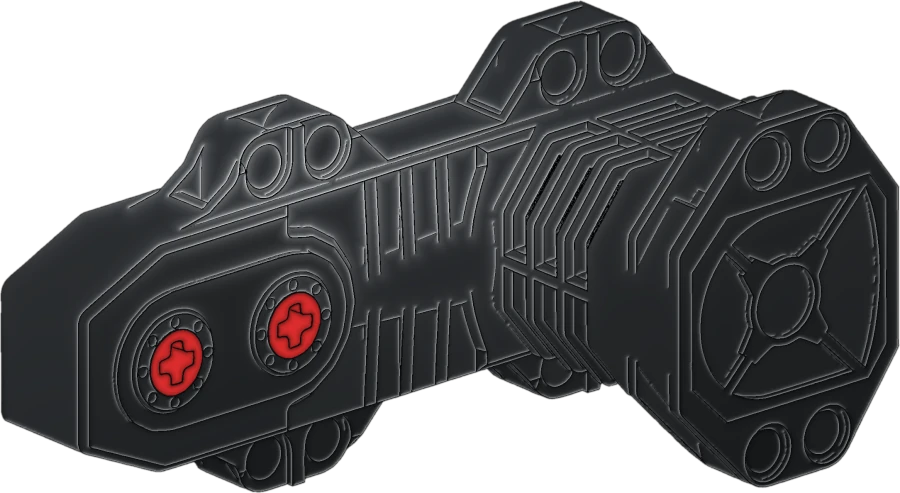
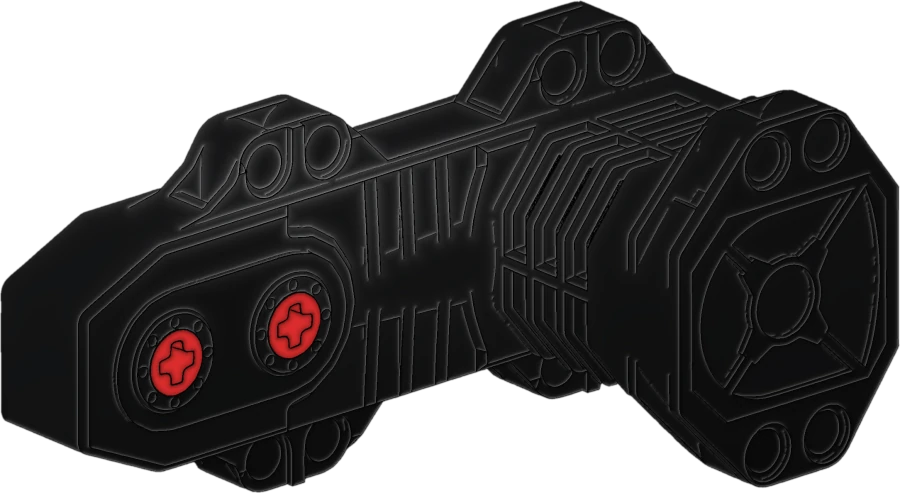
Build 100: Buggy motor bigger and darker in the hub wiring
Claude-Session: https://claude.ai/code/session_01RxQ4QJZ9M2VY5cz1gsySH8

diff --git a/app/src/main/assets/app.js b/app/src/main/assets/app.js
@@ -5679,7 +5679,7 @@ try{
   var V2MS3={"Eco": "Eco", "Sport": "Sport", "Drive mode": "Mod pandu",  "Play time limit (a day)": "Had masa main (sehari)", "2 minutes of play time left.": "Tinggal 2 minit masa main.", "Play time is up. Motors are slowing down.": "Masa main tamat. Motor sedang perlahan.", "Hold for 2 seconds to change (parents).": "Tahan 2 saat untuk tukar (ibu bapa).", "Play time limit off.": "Had masa main dimatikan.", "5 more minutes.": "Tambah 5 minit.", "Play time is up": "Masa main tamat", "Come back tomorrow, or a parent can add 5 minutes": "Main lagi esok, atau ibu bapa boleh tambah 5 minit", "+5 min (hold 2 s)": "+5 minit (tahan 2 s)", "Live output meter": "Meter keluaran langsung", "Left-handed (landscape)": "Mod kidal (landskap)", "Model colour": "Warna model", "Yellow": "Kuning", "Red": "Merah", "Blue": "Biru", "Green": "Hijau", "Purple": "Ungu", "White": "Putih", "Trim (runs straight)": "Trim (jalan lurus)", "Trim buttons on the widget": "Butang trim pada widget", "Trim left": "Trim kiri", "Trim right": "Trim kanan", "Trim reset to 0.": "Trim diset semula ke 0.", "Trim · tap to reset": "Trim · ketik untuk set semula", "Size": "Saiz", "Widget type": "Jenis widget", "All": "Semua", "Lights & buttons": "Lampu & butang", "Meters": "Meter", "Tap a button on the picture, or press it on the gamepad.": "Ketik butang pada gambar, atau tekan pada gamepad.", "Quick settings": "Tetapan pantas", "Unlock": "Buka kunci", "Dark theme": "Tema gelap", "Light theme": "Tema cerah", "hold 2 s": "tahan 2 s", "Release E-Stop (hold 1 s)": "Lepas E-Stop (tahan 1 s)", "Drive up to three Mould King 6.0 hubs from your phone. This guide shows the real buttons, step by step.": "Pandu sehingga tiga hub Mould King 6.0 dari telefon anda. Panduan ini menunjukkan butang sebenar, langkah demi langkah.", "Start": "Mula", "Turn the hub on, then hold START for half a second. The ring turns yellow when the hub answers.": "Hidupkan hub, kemudian tahan START selama setengah saat. Cincin bertukar kuning bila hub menjawab.", "Move the controls to drive. Lift your finger and they go back to 0.": "Gerakkan kawalan untuk memandu. Angkat jari dan ia kembali ke 0.", "E-Stop stops every motor at once. Tap it again to release.": "E-Stop menghentikan semua motor serta-merta. Ketik sekali lagi untuk lepas.", "Your models": "Model anda", "Make your own board, start from a template, or share a model with a friend.": "Buat papan sendiri, mula daripada templat, atau kongsi model dengan kawan.", "Welcome to MK6 Console": "Selamat datang ke MK6 Console", "Lock settings": "Kunci tetapan", "Disconnect": "Putuskan"};
   for(var v2k3 in V2MS3) if(!MS[v2k3]) MS[v2k3]=V2MS3[v2k3];
   var CHMS={"Motor axle: full-width LED display, it fills left to right going forward and right to left in reverse":"Paksi motor: paparan LED penuh, terisi dari kiri ke kanan bila maju dan kanan ke kiri bila undur","New meter widget Motor axle: the orange axle spins with the power and an LED bar shows forward and reverse":"Widget meter baharu Paksi motor: paksi oren berpusing ikut kuasa dan bar LED tunjuk maju dan undur","Hub wiring: LED cable joins the white connector cleanly, no stray black cable":"Pendawaian hub: kabel LED bersambung kemas pada connector putih, tiada lebihan kabel hitam","Hub wiring: the lock button is just the 🔒/🔓 symbol, no box":"Pendawaian hub: butang kunci hanya simbol 🔒/🔓, tanpa kotak","Channel test shows only the hub picked in Hub wiring":"Uji saluran hanya menunjukkan hub yang dipilih dalam Pendawaian hub","Hub wiring: lock button (on by default) so a stray touch cannot move the hub or parts; unlock to rearrange":"Pendawaian hub: butang kunci (hidup secara lalai) supaya sentuhan tersilap tidak mengalihkan hub atau part; buka kunci untuk susun semula","Layout locked.":"Susun atur dikunci.","Layout unlocked: drag the hub and parts.":"Susun atur dibuka: seret hub dan part.","Layout locked":"Susun atur dikunci","Layout unlocked":"Susun atur dibuka","Hub wiring: drag the hub too; its plugs stay locked on it and the cables follow":"Pendawaian hub: hub juga boleh diseret; palam kekal terkunci padanya dan kabel ikut","Hub wiring: no more light edge under the hub":"Pendawaian hub: tiada lagi garis cerah di bawah hub","Hub wiring: the hub is now the real picture of the hub, sharper and unchanged in shape and look":"Pendawaian hub: hub kini gambar sebenar hub, lebih tajam dan tidak diubah bentuk atau rupanya","Hub wiring in 3D: the real hub shape drawn in the motor style, 3D plugs and 4-core cables. Drag any motor anywhere on the board; cables re-route themselves around the hub and the other parts":"Pendawaian hub 3D: bentuk hub sebenar dilukis dalam gaya motor, palam 3D dan kabel 4 teras. Seret mana-mana motor ke mana sahaja atas papan; kabel mencari laluan sendiri mengelilingi hub dan part lain","Tap a port or drag a part":"Ketik port atau seret part","Hub wiring: LED lights are shown without the grey plug and its cable; the hub cable goes straight to the white connector":"Pendawaian hub: Lampu LED dipapar tanpa palam kelabu dan kabelnya; kabel hub terus ke penyambung putih","Hub wiring: the glow around a running plug is now a full frame (neighbouring plugs no longer cover it)":"Pendawaian hub: cahaya keliling palam yang berjalan kini bingkai penuh (palam jiran tidak lagi menutupnya)","Hub wiring": "Pendawaian hub", "Tap a port": "Ketik port",  "5 studs = 4 cm": "5 stud = 4 cm", "LED lights": "Lampu LED", "What is plugged in": "Apa yang dipasang", "Nothing": "Tiada", "Hold reverse": "Tahan undur", "Hold forward": "Tahan maju", "Close": "Tutup", "Hub wiring: the Hub screen now shows your Mould King hub with its six ports. Tap a port to say what is plugged in (Motor M, L, XL, Servo or LED lights); plugs, cables and parts light up and turn with the real output, and you can hold to test each port": "Pendawaian hub: skrin Hub kini menunjukkan hub Mould King anda dengan enam port. Ketik port untuk pilih apa yang dipasang (Motor M, L, XL, Servo atau Lampu LED); palam, kabel dan part menyala serta berpusing ikut output sebenar, dan anda boleh tahan untuk uji setiap port","Stop the hub to edit the board": "Hentikan hub untuk edit papan", "Stop the hub to edit the board.": "Hentikan hub untuk edit papan.", "Hub started: board editing ended.": "Hub dimulakan: edit papan ditamatkan.", "Upright board: editing is only available while the hub is stopped; starting the hub ends editing": "Papan menegak: edit hanya boleh bila hub dihentikan; memulakan hub menamatkan edit","Smoother and lighter: fewer layout reads in the paint loop, the frame log only updates while on screen, the effects monitor sleeps off the sideways board, and the swing angle pictures are 5× smaller": "Lebih lancar dan ringan: kurang bacaan susun atur dalam gelung lukisan, log bingkai hanya dikemas kini bila kelihatan, pemantau kesan tidur bila bukan papan landskap, dan gambar sudut pusingan 5× lebih kecil","Arc meter: the 5-second mini graph now shows on the sideways board too, whenever it fits": "Meter arka: graf mini 5 saat kini dipapar juga pada papan landskap, bila ada ruang","Edit mode upright: tap a widget to show its tools as round buttons over its corner, like the sideways board (no more cramped rows)": "Mod edit menegak: ketik widget untuk tunjuk alatnya sebagai butang bulat di penjurunya, seperti papan landskap (tiada lagi baris sesak)", "Tap a widget to show its tools.": "Ketik widget untuk tunjuk alatnya.","Dial comet tail: the LED ring segments the dial just passed glow and fade in 0.4 s (with Light trails in Settings)": "Ekor komet dail: segmen cincin LED yang baru dilalui dail menyala dan pudar dalam 0.4 s (bersama Jejak cahaya dalam Tetapan)", "Swap widgets: in dashboard edit mode, drop a widget on another and they swap places and sizes (Back undoes it)": "Tukar tempat widget: dalam mod edit papan landskap, lepaskan widget di atas widget lain dan kedua-duanya bertukar tempat serta saiz (Back membatalkan)", "Match size: pick a widget, tap ▣ and then tap others to give them the same size where there is room": "Samakan saiz: pilih widget, ketik ▣ kemudian ketik widget lain untuk beri saiz yang sama bila ada ruang", "Double tap to 0: double tap the knob of a slider, dial or lever and it glides back to 0 (lever: to N)": "Ketik dua kali ke 0: ketik dua kali tombol slider, dail atau lever dan ia meluncur kembali ke 0 (lever: ke N)", "E-Stop black box: the last 10 s of every channel are kept when E-Stop goes on; see them in Settings (last 3 stops)": "Kotak hitam E-Stop: 10 s terakhir setiap saluran disimpan bila E-Stop ditekan; lihat dalam Tetapan (3 henti terakhir)", "Match size": "Samakan saiz", "Tap widgets to give them this size:": "Ketik widget untuk beri saiz ini:", "Too small for this widget.": "Terlalu kecil untuk widget ini.", "No room for that size here.": "Tiada ruang untuk saiz itu di sini.", "Swap undone.": "Tukar tempat dibatalkan.", "Too small to swap there.": "Terlalu kecil untuk bertukar tempat di situ.", "E-Stop black box": "Kotak hitam E-Stop", "None yet": "Belum ada", "Nothing recorded yet. When E-Stop goes on, the last 10 seconds of every channel are kept here.": "Belum ada rakaman. Bila E-Stop ditekan, 10 saat terakhir setiap saluran disimpan di sini.", "The last 10 seconds before E-Stop. The red line is the moment it stopped.": "10 saat terakhir sebelum E-Stop. Garis merah ialah saat ia berhenti.", "Clear": "Kosongkan", "Close": "Tutup", "Black box cleared.": "Kotak hitam dikosongkan.", "Joystick light trail: a short yellow tail follows the knob and fades in 0.4 s (Settings → Experience)": "Jejak cahaya joystik: ekor kuning pendek mengikut tombol dan pudar dalam 0.4 s (Tetapan → Pengalaman)", "Live frames: the widget rim turns green while its motor runs, red at full stroke, and blinks red on E-Stop": "Bingkai hidup: bingkai widget bertukar hijau bila motornya berjalan, merah pada hujung gerakan, dan berkelip merah semasa E-Stop", "Pinch to resize: in dashboard edit mode, pinch a widget with two fingers to resize it in grid steps (Back undoes it)": "Cubit untuk ubah saiz: dalam mod edit papan landskap, cubit widget dengan dua jari untuk ubah saiz ikut petak grid (Back membatalkan)", "Two-finger fine control: rest a second finger on empty board space and sliders and joysticks move only 30% of your finger (20 / 30 / 50% or off in Settings)": "Kawalan halus dua jari: letak jari kedua di ruang kosong papan dan slider serta joystik hanya bergerak 30% daripada jari (20 / 30 / 50% atau tutup dalam Tetapan)", "Joystick light trail": "Jejak cahaya joystik", "Live frames (green = running, red = full)": "Bingkai hidup (hijau = berjalan, merah = penuh)", "Two-finger fine control": "Kawalan halus dua jari", "Fine": "Halus", "Joystick glow as bright as the sliders: it no longer shrinks with the joystick size, and it is drawn above the knob shadow":"Cahaya joystik kini seterang slider: tidak lagi mengecil ikut saiz joystik, dan dilukis di atas bayang tombol","One glow for every knob: sliders (flat and upright), joysticks and the ON switch now light up the same way; flat sliders draw their knob like the upright ones, so the glow is no longer cut off":"Satu cahaya untuk semua tombol: slider (mendatar dan tegak), joystik dan suis ON kini bercahaya sama; slider mendatar dilukis seperti slider tegak, jadi cahaya tidak lagi terpotong","Channel letter: tap it any time, even while driving with the hub on; every widget with channels has one (double stick too). Cleaner chip look, ⇄ button removed":"Huruf saluran: ketik bila-bila masa, walaupun semasa memandu dengan hub aktif; setiap widget bersaluran ada huruf ini (stik berkembar juga). Rupa cip lebih kemas, butang ⇄ dibuang","Change channel": "Tukar saluran", "Channel change undone.": "Tukar saluran dibatalkan.", "This channel is already used": "Saluran ini sudah digunakan", "Also used by:": "Turut digunakan oleh:", "Both widgets will drive the same channel. The last one you touch wins.": "Kedua-dua widget akan mengawal saluran yang sama. Yang terakhir disentuh menang.", "Share channel": "Kongsi saluran", "Channels": "Saluran", "Names ›": "Nama ›", "● used by another widget": "● digunakan widget lain", "✓ this widget": "✓ widget ini", "free": "bebas", "Channel settings (name, reverse, limit) stay with each channel.": "Tetapan saluran (nama, terbalik, had) kekal pada setiap saluran.", "Up / down": "Atas / bawah", "Left / right": "Kiri / kanan", "Left motor": "Motor kiri", "Right motor": "Motor kanan", "Left stick: left motor": "Stik kiri: motor kiri", "Left stick: right motor": "Stik kiri: motor kanan", "Right stick: left motor": "Stik kanan: motor kiri", "Right stick: right motor": "Stik kanan: motor kanan", "Left stick: up / down": "Stik kiri: atas / bawah", "Left stick: left / right": "Stik kiri: kiri / kanan", "Right stick: up / down": "Stik kanan: atas / bawah", "Right stick: left / right": "Stik kanan: kiri / kanan", "Left side": "Sebelah kiri", "Right side": "Sebelah kanan", "X (left / right)": "X (kiri / kanan)", "Y (up / down)": "Y (atas / bawah)", "Channel 1": "Saluran 1", "Channel 2": "Saluran 2", "Channel 3": "Saluran 3", "Channel 4": "Saluran 4", "Slider": "Peluncur", "Joystick": "Joystik", "Double stick": "Stik berkembar", "Light": "Lampu", "Turbo": "Turbo", "Toggle": "Togol", "Mix": "Campur", "Switch": "Suis", "Auto-stop": "Henti auto", "Ramp": "Naik perlahan", "Meter": "Meter", "Bar meter": "Meter bar", "Graph": "Graf", "Dial": "Dail", "Gear": "Gear", "Lever": "Tuas", "Steering wheel": "Stereng", "XY pad": "Pad XY", "Crossfader": "Crossfader", "Rotor": "Rotor", "Swing angle": "Sudut pusingan", "D-pad": "Pad arah", "LED widget": "Widget LED", "Widget": "Widget", "Hub": "Hub", "None": "Tiada", "Steer": "Pusing", "Drive": "Pandu", "Output A": "Output A", "Output B": "Output B", "Swing channel": "Saluran pusing", "Light channel": "Saluran lampu", "Channel": "Saluran", "Channels, every widget: tap the yellow channel letter while editing (or ⇄) to move a widget to another channel or hub; the named list shows who uses each channel": "Saluran, semua widget: ketik huruf saluran kuning semasa edit (atau ⇄) untuk pindah widget ke saluran atau hub lain; senarai bernama menunjukkan siapa guna setiap saluran"};for(var chk in CHMS) if(!MS[chk]) MS[chk]=CHMS[chk];
-  var WRMS={"LED":"LED","Hub wiring: new part Buggy motor (glossy black), its two red outputs turn together at the right angle when the port runs": "Pendawaian hub: part baru Buggy motor (hitam berkilat), dua output merahnya berputar bersama pada sudut yang betul bila port berjalan", "Buggy motor": "Buggy motor", "Buggy": "Buggy","Settings: the switch is now just called Live frame, and Left-handed (landscape) is removed": "Tetapan: suis kini dinamakan Bingkai langsung sahaja, dan Kidal (melintang) dibuang", "Hub wiring panel is smaller: part types on one row, a ✕ to close and ▾ to fold it down to the name, live bar, Hold buttons and test slider": "Panel pendawaian hub lebih kecil: jenis part dalam satu baris, ✕ untuk tutup dan ▾ untuk lipat kepada nama, bar langsung, butang Tahan dan gelangsar ujian", "Hub wiring panel: ‹ › step to the next port, a live output bar under the name, Wiggle to find which part is on the port, and Max power and trim for that port": "Panel pendawaian hub: ‹ › ke port seterusnya, bar output langsung di bawah nama, Goyang untuk cari part pada port itu, serta Kuasa maksimum dan trim untuk port itu", "Live frame": "Bingkai langsung", "〰 Wiggle to find it": "〰 Goyang untuk cari", "■ Stop": "■ Henti", "Max power": "Kuasa maksimum", "Centre trim": "Trim tengah", "Trim (runs straight)": "Trim (lurus)", "Previous port": "Port sebelum", "Next port": "Port seterusnya", "Make the panel smaller": "Kecilkan panel", "Show all of the panel": "Tunjuk seluruh panel", "Close": "Tutup","Hub screen: Build board and Channel test are removed, with their code (test a port from its panel in Hub wiring)": "Skrin hub: Bina papan dan Uji saluran dibuang, bersama kodnya (uji port dari panelnya dalam Pendawaian hub)","Settings: Light trails and Two-finger fine control are removed, with their code": "Tetapan: Jejak cahaya dan Kawalan halus dua jari dibuang, bersama kodnya","Hub wiring sketches itself while you build a board: each new widget fills in the part on its empty ports (drive = Motor L, steering = Servo, lever = Motor XL, lights = LED, others = Motor M). Parts you picked are never changed": "Pendawaian hub dilakar sendiri semasa membina papan: setiap widget baharu mengisi part pada port yang masih kosong (pemanduan = Motor L, stereng = Servo, tuas = Motor XL, lampu = LED, lain-lain = Motor M). Part yang anda pilih tidak pernah diubah", "Hub wiring filled in": "Pendawaian hub diisi","Cleaner app: unused code, old translations and two unused pictures removed (smaller, faster to load)": "App lebih kemas: kod tidak digunakan, terjemahan lama dan dua gambar yang tidak digunakan dibuang (lebih kecil, lebih cepat dimuat)","Fixed: the app could switch to another model by itself (other wiring, other hubs) when it came back from the background or Recents after a model shortcut had been used once; a shortcut now opens its model only when tapped": "Dibetulkan: app boleh bertukar ke model lain dengan sendiri (pendawaian dan hub lain) bila kembali dari latar belakang atau Terkini selepas pintasan model pernah digunakan; pintasan kini membuka modelnya hanya bila diketik", "If the app's storage is full, a message now says changes are not being saved (before, they were lost quietly at the next start)": "Jika storan app penuh, mesej kini memberitahu perubahan tidak disimpan (sebelum ini ia hilang senyap pada permulaan seterusnya)", "Opened from the shortcut": "Dibuka dari pintasan", "App storage is full: changes are not being saved. Remove a model photo or a wallpaper, or delete old models.": "Storan app penuh: perubahan tidak disimpan. Buang foto model atau kertas dinding, atau padam model lama.","Model icons: Google Material Symbols in gold (car, loader, forklift, truck, tractor, sailboat)": "Ikon model: Google Material Symbols berwarna emas (kereta, loader, forklift, trak, traktor, bot layar)", "Hub wiring panel: tap the channel name to rename it": "Panel pendawaian hub: ketik nama saluran untuk menukarnya", "Hub wiring panel: the test slider has a yellow knob on a plain track, and part names fit their tiles": "Panel pendawaian hub: gelangsar ujian berknob kuning pada trek biasa, dan nama part muat dalam jubin", "Loader": "Loader", "Forklift": "Forklift", "Sailboat": "Bot layar", "Channel name": "Nama saluran","Model settings: the Advanced part is gone (Standard / Joystick / Dual stick layouts, Setup wizard and Test hub). Every model drives with the Board; older models get a starter board": "Tetapan model: bahagian Lanjutan dibuang (susun atur Standard / Joystick / Dual stick, Wizard persediaan dan Uji hub). Setiap model dipandu dengan Papan; model lama mendapat papan permulaan", "Settings: the Live output meter is gone, and values always show ▲/▼ for direction (the switch is gone)": "Tetapan: Meter output langsung dibuang, dan nilai sentiasa menunjukkan ▲/▼ untuk arah (suisnya dibuang)", "Model icons are now detailed pictures: car, excavator, crane, truck, tractor and boat": "Ikon model kini gambar terperinci: kereta, jengkaut, kren, trak, traktor dan bot", "The left and right sticks move the joysticks on the board. Back = E-Stop, Start = release.": "Stik kiri dan kanan menggerakkan joystik pada papan. Back = E-Stop, Start = lepas.", "Used by Calibration and the hub wiring tests.": "Digunakan oleh Kalibrasi dan ujian pendawaian hub.","Hub wiring: the port panel floats above the page, with Hold and the test slider at the top, so a motor can be tested while the wiring stays in view": "Pendawaian hub: panel port terapung di atas halaman, dengan Tahan dan gelangsar ujian di atas, jadi motor boleh diuji sambil pendawaian kekal kelihatan", "Hub wiring: with Reverse direction on, the motor picture, the cable pulses and the panel value now show the reversed direction the hub really gets": "Pendawaian hub: bila Terbalikkan arah dihidupkan, gambar motor, denyut kabel dan nilai panel kini menunjukkan arah terbalik yang sebenarnya diterima hub", "Hub wiring: a port panel left open from another model or from All hubs closes instead of showing the wrong hub": "Pendawaian hub: panel port yang tertinggal dari model lain atau dari Semua hub ditutup, bukan menunjukkan hub yang salah","◀ Hold reverse":"◀ Tahan undur","Hold forward ▶":"Tahan maju ▶","All hubs": "Semua hub",  "✓ Check wiring": "✓ Semak pendawaian", "⇲ Tidy": "⇲ Kemas", "Test slider": "Gelangsar ujian", "let go = stop": "lepas = berhenti", "Reverse direction": "Terbalikkan arah", "Cable": "Kabel", "The cable does not reach this far. Move the part closer or use a 50 cm cable.": "Kabel tidak sampai sejauh ini. Dekatkan part atau guna kabel 50 cm.", "Add to board": "Tambah ke papan", "Power budget": "Bajet kuasa", "estimate": "anggaran", "Hubs do not report current: these are estimates from each part and its power. Play time assumes a 1500 mAh battery.": "Hub tidak menghantar data arus: ini anggaran dari setiap part dan kuasanya. Masa main andaikan bateri 1500 mAh.",  "widgets": "widget",  "Wiring check done": "Semakan pendawaian selesai", "right": "betul", "swapped": "ditukar", "to check": "perlu disemak", "Running for a moment… watch which part moves.": "Berjalan sekejap… perhatikan part mana yang bergerak.", "Stop check": "Henti semakan", "Which part moved?": "Part mana yang bergerak?", "The app swaps the two ports: names, settings and widgets follow the motors.": "App menukar kedua-dua port: nama, tetapan dan widget ikut motor.", "Nothing moved": "Tiada yang bergerak", "Did this part move?": "Adakah part ini bergerak?", "Yes": "Ya", "No": "Bukan", "Again": "Ulang", "Check the plug and cable on port": "Semak palam dan kabel pada port", "Ports swapped": "Port ditukar", "of the hub budget": "daripada bajet hub", "Play time left": "Baki masa main", "over 4 hours": "lebih 4 jam", "Over the hub budget: the hub may cut out on a climb. Move a heavy motor to another hub.": "Melebihi bajet hub: hub mungkin mati ketika mendaki. Pindahkan motor berat ke hub lain.", "High load: the hub may limit power or get warm.": "Beban tinggi: hub mungkin hadkan kuasa atau jadi suam.", "Direction reversed for": "Arah diterbalikkan untuk", "Normal direction for": "Arah biasa untuk", "Pick what is plugged into each port first.": "Pilih dahulu apa yang dipasang pada setiap port.", "Added to the board.": "Ditambah ke papan.", "Added. Switch the layout to Board to see it.": "Ditambah. Tukar susun atur ke Papan untuk melihatnya.", "Tidied: each part back on its side of the hub.": "Dikemas: setiap part kembali ke sisinya pada hub.",  "Hub wiring: Build board makes a board from what is plugged in (two drive motors become a tank joystick, servo a steering wheel, XL a lever, lights a toggle, plus E-Stop). Back on the board undoes it": "Pendawaian hub: Bina papan menghasilkan papan dari apa yang dipasang (dua motor pemanduan jadi joystik tank, servo jadi stereng, XL jadi tuas, lampu jadi togol, serta E-Stop). Back pada papan membatalkannya", "Power budget under the hub wiring: estimated current per port and per hub, warnings at high load and an estimate of play time left": "Bajet kuasa di bawah pendawaian hub: anggaran arus setiap port dan setiap hub, amaran bila beban tinggi dan anggaran baki masa main", "Check wiring: each port runs for a moment and the app asks if the right part moved; if not, pick the part that did and the two ports swap with their names, settings and widgets": "Semak pendawaian: setiap port berjalan sekejap dan app bertanya sama ada part yang betul bergerak; jika tidak, pilih part yang bergerak dan kedua-dua port ditukar bersama nama, tetapan dan widget", "Hub wiring cables come alive: bright pulses run along a cable while its port has power, faster with more power and backwards in reverse": "Kabel pendawaian hub hidup: denyut cahaya mengalir sepanjang kabel bila port berkuasa, lebih laju dengan kuasa lebih dan berundur bila undur", "Hub wiring labels show the channel name under the part": "Label pendawaian hub menunjukkan nama saluran di bawah part", "Port panel: test slider (let go = stop), reverse direction switch, cable length (20 or 50 cm) and Add to board for that port": "Panel port: gelangsar ujian (lepas = berhenti), suis terbalikkan arah, panjang kabel (20 atau 50 cm) dan Tambah ke papan untuk port itu", "Tidy: parts glide back to their own side of the hub so the cables are short and do not cross": "Kemas: part meluncur kembali ke sisinya pada hub supaya kabel pendek dan tidak bersilang", "Cable length: a cable turns red when the part sits further away than its cable reaches (5 studs = 4 cm)": "Panjang kabel: kabel jadi merah bila part diletak lebih jauh daripada jangkauan kabelnya (5 stud = 4 cm)", "All hubs: see every hub's wiring at once (side by side when the phone is sideways); the channel test then shows every hub": "Semua hub: lihat pendawaian setiap hub sekali gus (bersebelahan bila telefon mengiring); uji saluran kemudian tunjuk setiap hub"};for(var wk in WRMS) if(!MS[wk]) MS[wk]=WRMS[wk];
+  var WRMS={"Buggy motor is bigger and a deeper black in the hub wiring": "Buggy motor lebih besar dan lebih hitam dalam pendawaian hub","LED":"LED","Hub wiring: new part Buggy motor (glossy black), its two red outputs turn together at the right angle when the port runs": "Pendawaian hub: part baru Buggy motor (hitam berkilat), dua output merahnya berputar bersama pada sudut yang betul bila port berjalan", "Buggy motor": "Buggy motor", "Buggy": "Buggy","Settings: the switch is now just called Live frame, and Left-handed (landscape) is removed": "Tetapan: suis kini dinamakan Bingkai langsung sahaja, dan Kidal (melintang) dibuang", "Hub wiring panel is smaller: part types on one row, a ✕ to close and ▾ to fold it down to the name, live bar, Hold buttons and test slider": "Panel pendawaian hub lebih kecil: jenis part dalam satu baris, ✕ untuk tutup dan ▾ untuk lipat kepada nama, bar langsung, butang Tahan dan gelangsar ujian", "Hub wiring panel: ‹ › step to the next port, a live output bar under the name, Wiggle to find which part is on the port, and Max power and trim for that port": "Panel pendawaian hub: ‹ › ke port seterusnya, bar output langsung di bawah nama, Goyang untuk cari part pada port itu, serta Kuasa maksimum dan trim untuk port itu", "Live frame": "Bingkai langsung", "〰 Wiggle to find it": "〰 Goyang untuk cari", "■ Stop": "■ Henti", "Max power": "Kuasa maksimum", "Centre trim": "Trim tengah", "Trim (runs straight)": "Trim (lurus)", "Previous port": "Port sebelum", "Next port": "Port seterusnya", "Make the panel smaller": "Kecilkan panel", "Show all of the panel": "Tunjuk seluruh panel", "Close": "Tutup","Hub screen: Build board and Channel test are removed, with their code (test a port from its panel in Hub wiring)": "Skrin hub: Bina papan dan Uji saluran dibuang, bersama kodnya (uji port dari panelnya dalam Pendawaian hub)","Settings: Light trails and Two-finger fine control are removed, with their code": "Tetapan: Jejak cahaya dan Kawalan halus dua jari dibuang, bersama kodnya","Hub wiring sketches itself while you build a board: each new widget fills in the part on its empty ports (drive = Motor L, steering = Servo, lever = Motor XL, lights = LED, others = Motor M). Parts you picked are never changed": "Pendawaian hub dilakar sendiri semasa membina papan: setiap widget baharu mengisi part pada port yang masih kosong (pemanduan = Motor L, stereng = Servo, tuas = Motor XL, lampu = LED, lain-lain = Motor M). Part yang anda pilih tidak pernah diubah", "Hub wiring filled in": "Pendawaian hub diisi","Cleaner app: unused code, old translations and two unused pictures removed (smaller, faster to load)": "App lebih kemas: kod tidak digunakan, terjemahan lama dan dua gambar yang tidak digunakan dibuang (lebih kecil, lebih cepat dimuat)","Fixed: the app could switch to another model by itself (other wiring, other hubs) when it came back from the background or Recents after a model shortcut had been used once; a shortcut now opens its model only when tapped": "Dibetulkan: app boleh bertukar ke model lain dengan sendiri (pendawaian dan hub lain) bila kembali dari latar belakang atau Terkini selepas pintasan model pernah digunakan; pintasan kini membuka modelnya hanya bila diketik", "If the app's storage is full, a message now says changes are not being saved (before, they were lost quietly at the next start)": "Jika storan app penuh, mesej kini memberitahu perubahan tidak disimpan (sebelum ini ia hilang senyap pada permulaan seterusnya)", "Opened from the shortcut": "Dibuka dari pintasan", "App storage is full: changes are not being saved. Remove a model photo or a wallpaper, or delete old models.": "Storan app penuh: perubahan tidak disimpan. Buang foto model atau kertas dinding, atau padam model lama.","Model icons: Google Material Symbols in gold (car, loader, forklift, truck, tractor, sailboat)": "Ikon model: Google Material Symbols berwarna emas (kereta, loader, forklift, trak, traktor, bot layar)", "Hub wiring panel: tap the channel name to rename it": "Panel pendawaian hub: ketik nama saluran untuk menukarnya", "Hub wiring panel: the test slider has a yellow knob on a plain track, and part names fit their tiles": "Panel pendawaian hub: gelangsar ujian berknob kuning pada trek biasa, dan nama part muat dalam jubin", "Loader": "Loader", "Forklift": "Forklift", "Sailboat": "Bot layar", "Channel name": "Nama saluran","Model settings: the Advanced part is gone (Standard / Joystick / Dual stick layouts, Setup wizard and Test hub). Every model drives with the Board; older models get a starter board": "Tetapan model: bahagian Lanjutan dibuang (susun atur Standard / Joystick / Dual stick, Wizard persediaan dan Uji hub). Setiap model dipandu dengan Papan; model lama mendapat papan permulaan", "Settings: the Live output meter is gone, and values always show ▲/▼ for direction (the switch is gone)": "Tetapan: Meter output langsung dibuang, dan nilai sentiasa menunjukkan ▲/▼ untuk arah (suisnya dibuang)", "Model icons are now detailed pictures: car, excavator, crane, truck, tractor and boat": "Ikon model kini gambar terperinci: kereta, jengkaut, kren, trak, traktor dan bot", "The left and right sticks move the joysticks on the board. Back = E-Stop, Start = release.": "Stik kiri dan kanan menggerakkan joystik pada papan. Back = E-Stop, Start = lepas.", "Used by Calibration and the hub wiring tests.": "Digunakan oleh Kalibrasi dan ujian pendawaian hub.","Hub wiring: the port panel floats above the page, with Hold and the test slider at the top, so a motor can be tested while the wiring stays in view": "Pendawaian hub: panel port terapung di atas halaman, dengan Tahan dan gelangsar ujian di atas, jadi motor boleh diuji sambil pendawaian kekal kelihatan", "Hub wiring: with Reverse direction on, the motor picture, the cable pulses and the panel value now show the reversed direction the hub really gets": "Pendawaian hub: bila Terbalikkan arah dihidupkan, gambar motor, denyut kabel dan nilai panel kini menunjukkan arah terbalik yang sebenarnya diterima hub", "Hub wiring: a port panel left open from another model or from All hubs closes instead of showing the wrong hub": "Pendawaian hub: panel port yang tertinggal dari model lain atau dari Semua hub ditutup, bukan menunjukkan hub yang salah","◀ Hold reverse":"◀ Tahan undur","Hold forward ▶":"Tahan maju ▶","All hubs": "Semua hub",  "✓ Check wiring": "✓ Semak pendawaian", "⇲ Tidy": "⇲ Kemas", "Test slider": "Gelangsar ujian", "let go = stop": "lepas = berhenti", "Reverse direction": "Terbalikkan arah", "Cable": "Kabel", "The cable does not reach this far. Move the part closer or use a 50 cm cable.": "Kabel tidak sampai sejauh ini. Dekatkan part atau guna kabel 50 cm.", "Add to board": "Tambah ke papan", "Power budget": "Bajet kuasa", "estimate": "anggaran", "Hubs do not report current: these are estimates from each part and its power. Play time assumes a 1500 mAh battery.": "Hub tidak menghantar data arus: ini anggaran dari setiap part dan kuasanya. Masa main andaikan bateri 1500 mAh.",  "widgets": "widget",  "Wiring check done": "Semakan pendawaian selesai", "right": "betul", "swapped": "ditukar", "to check": "perlu disemak", "Running for a moment… watch which part moves.": "Berjalan sekejap… perhatikan part mana yang bergerak.", "Stop check": "Henti semakan", "Which part moved?": "Part mana yang bergerak?", "The app swaps the two ports: names, settings and widgets follow the motors.": "App menukar kedua-dua port: nama, tetapan dan widget ikut motor.", "Nothing moved": "Tiada yang bergerak", "Did this part move?": "Adakah part ini bergerak?", "Yes": "Ya", "No": "Bukan", "Again": "Ulang", "Check the plug and cable on port": "Semak palam dan kabel pada port", "Ports swapped": "Port ditukar", "of the hub budget": "daripada bajet hub", "Play time left": "Baki masa main", "over 4 hours": "lebih 4 jam", "Over the hub budget: the hub may cut out on a climb. Move a heavy motor to another hub.": "Melebihi bajet hub: hub mungkin mati ketika mendaki. Pindahkan motor berat ke hub lain.", "High load: the hub may limit power or get warm.": "Beban tinggi: hub mungkin hadkan kuasa atau jadi suam.", "Direction reversed for": "Arah diterbalikkan untuk", "Normal direction for": "Arah biasa untuk", "Pick what is plugged into each port first.": "Pilih dahulu apa yang dipasang pada setiap port.", "Added to the board.": "Ditambah ke papan.", "Added. Switch the layout to Board to see it.": "Ditambah. Tukar susun atur ke Papan untuk melihatnya.", "Tidied: each part back on its side of the hub.": "Dikemas: setiap part kembali ke sisinya pada hub.",  "Hub wiring: Build board makes a board from what is plugged in (two drive motors become a tank joystick, servo a steering wheel, XL a lever, lights a toggle, plus E-Stop). Back on the board undoes it": "Pendawaian hub: Bina papan menghasilkan papan dari apa yang dipasang (dua motor pemanduan jadi joystik tank, servo jadi stereng, XL jadi tuas, lampu jadi togol, serta E-Stop). Back pada papan membatalkannya", "Power budget under the hub wiring: estimated current per port and per hub, warnings at high load and an estimate of play time left": "Bajet kuasa di bawah pendawaian hub: anggaran arus setiap port dan setiap hub, amaran bila beban tinggi dan anggaran baki masa main", "Check wiring: each port runs for a moment and the app asks if the right part moved; if not, pick the part that did and the two ports swap with their names, settings and widgets": "Semak pendawaian: setiap port berjalan sekejap dan app bertanya sama ada part yang betul bergerak; jika tidak, pilih part yang bergerak dan kedua-dua port ditukar bersama nama, tetapan dan widget", "Hub wiring cables come alive: bright pulses run along a cable while its port has power, faster with more power and backwards in reverse": "Kabel pendawaian hub hidup: denyut cahaya mengalir sepanjang kabel bila port berkuasa, lebih laju dengan kuasa lebih dan berundur bila undur", "Hub wiring labels show the channel name under the part": "Label pendawaian hub menunjukkan nama saluran di bawah part", "Port panel: test slider (let go = stop), reverse direction switch, cable length (20 or 50 cm) and Add to board for that port": "Panel port: gelangsar ujian (lepas = berhenti), suis terbalikkan arah, panjang kabel (20 atau 50 cm) dan Tambah ke papan untuk port itu", "Tidy: parts glide back to their own side of the hub so the cables are short and do not cross": "Kemas: part meluncur kembali ke sisinya pada hub supaya kabel pendek dan tidak bersilang", "Cable length: a cable turns red when the part sits further away than its cable reaches (5 studs = 4 cm)": "Panjang kabel: kabel jadi merah bila part diletak lebih jauh daripada jangkauan kabelnya (5 stud = 4 cm)", "All hubs: see every hub's wiring at once (side by side when the phone is sideways); the channel test then shows every hub": "Semua hub: lihat pendawaian setiap hub sekali gus (bersebelahan bila telefon mengiring); uji saluran kemudian tunjuk setiap hub"};for(var wk in WRMS) if(!MS[wk]) MS[wk]=WRMS[wk];
 
   var V2MS4={"Cruise": "Cruise", "Connect the hub first.": "Sambungkan hub dahulu.", "Cruise off. Held controls go back to 0.": "Cruise dimatikan. Kawalan yang ditahan kembali ke 0.", "Cruise on: a control you let go of keeps its value. Bring it back to the middle to stop it. Steering and lights still return.": "Cruise hidup: kawalan yang dilepaskan kekal pada nilainya. Bawa kembali ke tengah untuk berhenti. Stereng dan lampu tetap kembali.", "Cruise on": "Cruise hidup", "Steering eases at speed": "Stereng ikut kelajuan", "Steering": "Stereng", "Throttle": "Pendikit", "Steering at full speed": "Stereng pada kelajuan penuh", "At full throttle the steering turns only this much, so the model does not tip over in fast turns.": "Pada pendikit penuh, stereng hanya berpusing setakat ini supaya model tidak terbalik semasa membelok laju.", "Bluetooth is back. Reconnecting the hub. Motors are at zero.": "Bluetooth hidup semula. Menyambung semula hub. Motor pada sifar.", "Reconnect automatically (back in the app, Bluetooth on again, or app opened)": "Sambung semula automatik (kembali ke app, Bluetooth hidup semula, atau app dibuka)", "Reconnecting the hub from last time. Motors are at zero.": "Menyambung semula hub seperti kali lepas. Motor pada sifar.",  "Model icon": "Ikon model", "Choose photo": "Pilih foto", "Remove photo": "Buang foto", "No icon": "Tiada ikon", "Car": "Kereta", "Excavator": "Jengkaut",  "Truck": "Lori", "Tractor": "Traktor", "Boat": "Bot", "Photo set for this model.": "Foto ditetapkan untuk model ini.", "Photo removed.": "Foto dibuang.", "That image could not be read.": "Imej itu tidak dapat dibaca.", "No image was chosen.": "Tiada imej dipilih.", "Practice: virtual model": "Latihan: model maya", "tap to put the model back in the middle": "ketik untuk letak model di tengah semula", "Undo": "Batal", "Redo": "Ulang", "Focus mode": "Mod fokus", "Focus mode. Tap the focus button at the top to leave.": "Mod fokus. Ketik butang fokus di atas untuk keluar."};
   for(var v2k4 in V2MS4) if(!MS[v2k4]) MS[v2k4]=V2MS4[v2k4];
@@ -6184,11 +6184,11 @@ var EXIT={m:[.93,.30],l:[.97,.40],xl:[.92,.32],bg:[.95,.45],sv:[.96,.40],lt:[.97
 // true scale: U scene units = 1 stud (8 mm). Hub drawing: 162 px per stud (stud pitch in the drawing).
 var U=54,HS=.38,HX=680-942.5*HS,HY=770-70*HS;   // hub 9 x 5 studs (162 px per stud in the hub drawing)    // hub drawing placed with translate(HX,HY) scale(HS)
 // part length in studs (BrickArchitect sizes: Med 3x3x6, Lg 3x4x7, XL 5x5x6, Servo 3x5x7); the picture is scaled so its width spans that length
-var LEN={m:6,l:7,xl:6,bg:7.5,sv:7};
+var LEN={m:6,l:7,xl:6,bg:9.75,sv:7};
 function hx(x){return HX+x*HS}function hy(y){return HY+y*HS}
 
 var POS={},POS0={},SLOT={},SXS=[40,470,900];['E','C','A'].forEach(function(k,j){SLOT[k]={x:SXS[j],y:20,w:420,h:330,top:true}});['F','D','B'].forEach(function(k,j){SLOT[k]={x:SXS[j],y:1130,w:420,h:330,top:false}});
-function fit(t,k){if(typeof k!=='string') k=Object.keys(SLOT).filter(function(q){return SLOT[q]===k})[0];var d=IMG[t],sc=t==='lt'?1.15:LEN[t]*U/d.W,w=d.W*sc,h=d.H*sc,c=POS[k];return {k:sc,x:c[0]-w/2,y:c[1]-h/2,w:w,h:h}}
+function fit(t,k){if(typeof k!=='string') k=Object.keys(SLOT).filter(function(q){return SLOT[q]===k})[0];var d=IMG[t],sc=t==='lt'?1.15:LEN[t]*U/d.W,w=d.W*sc,h=d.H*sc,c=POS[k],x=c[0]-w/2;if(t==='bg') x=Math.max(8,Math.min(1352-w,x));return {k:sc,x:x,y:c[1]-h/2,w:w,h:h}}
 
 function partSvg(k){var s=ST[k],t=s.t;if(!t) return '';var f=fit(t,k),d=IMG[t],o='';
  o+='<g class="pt" data-p="'+k+'" style="cursor:pointer" id="pt'+k+'" transform="translate('+f.x.toFixed(1)+' '+f.y.toFixed(1)+') scale('+f.k.toFixed(5)+')"><image href="img/pf/'+t+'.webp" width="'+d.W+'" height="'+d.H+'"/>';
@@ -6981,6 +6981,7 @@ return API;
 
   // ---- What's new, version and update check ----
   var CHANGES=[
+    {b:100,items:[["better", "Buggy motor is bigger and a deeper black in the hub wiring"]]},
     {b:99,items:[["new", "Hub wiring: new part Buggy motor (glossy black), its two red outputs turn together at the right angle when the port runs"]]},
     {b:98,items:[["better", "Settings: the switch is now just called Live frame, and Left-handed (landscape) is removed"], ["better", "Hub wiring panel is smaller: part types on one row, a ✕ to close and ▾ to fold it down to the name, live bar, Hold buttons and test slider"], ["new", "Hub wiring panel: ‹ › step to the next port, a live output bar under the name, Wiggle to find which part is on the port, and Max power and trim for that port"]]},
     {b:97,items:[["better", "Hub screen: Build board and Channel test are removed, with their code (test a port from its panel in Hub wiring)"]]},
